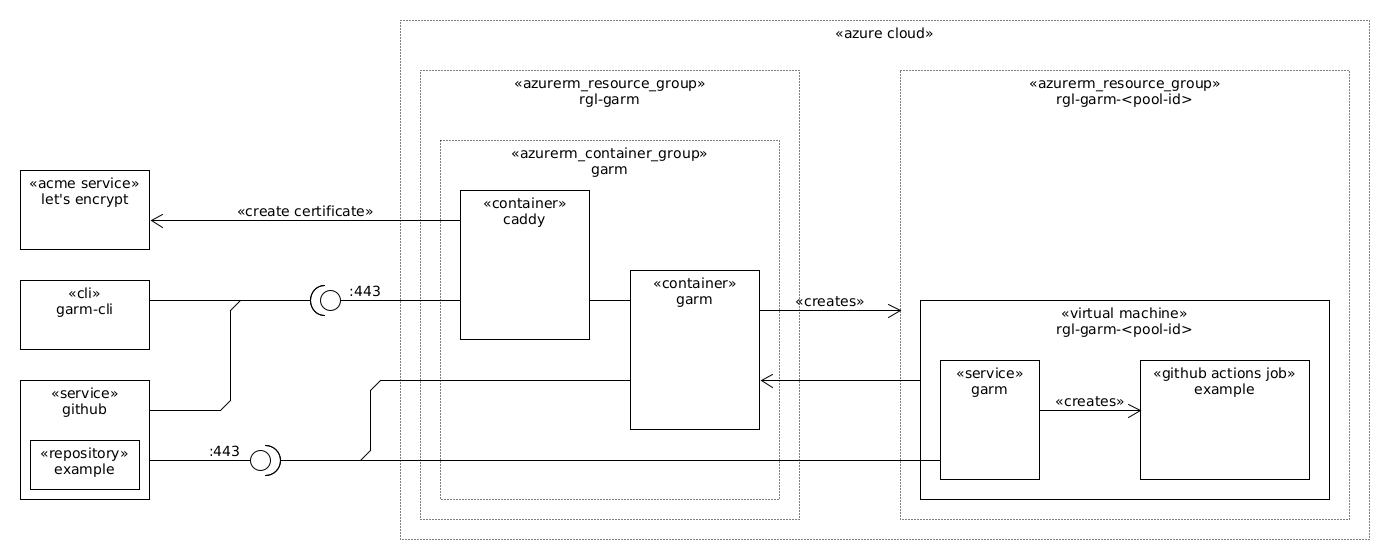
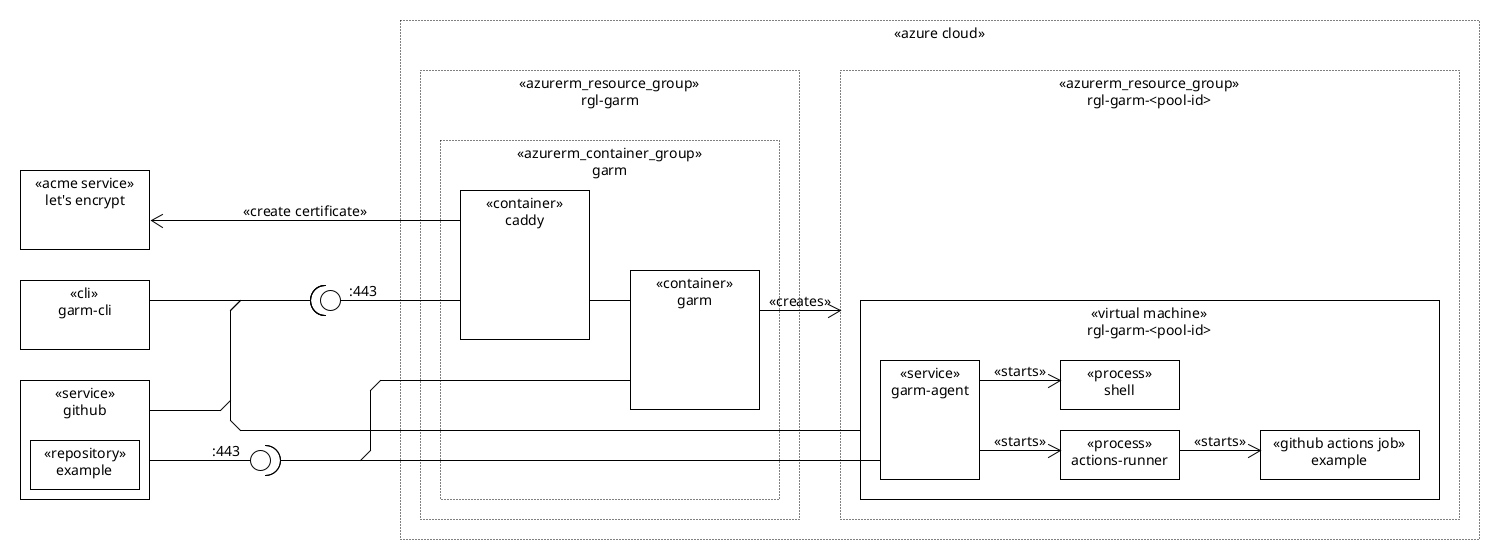
enable the agent mode and shell access

diff --git a/README.md b/README.md
@@ -300,6 +300,7 @@ Add a user GitHub repository:
 ```bash
 repo_name='terraform-azure-garm-example-repository'
 ./garm-cli repo add \
+  --agent-mode \
   --credentials rgl \
   --owner rgl \
   --name "$repo_name" \
@@ -335,6 +336,7 @@ Add a GitHub organization:
 ```bash
 org_name='rgl-example'
 ./garm-cli org add \
+  --agent-mode \
   --credentials rgl-example \
   --name "$org_name" \
   --install-webhook \
@@ -366,6 +368,7 @@ Create a Ubuntu (runner) pool associated with a GitHub repository:
 #     Canonical:ubuntu-24_04-lts:server:24.04.202601300
 ./garm-cli pool create \
   --enabled true \
+  --enable-shell \
   --min-idle-runners 0 \
   --max-runners 2 \
   --tags garm-azure-amd64-ubuntu-24.04 \
@@ -422,6 +425,7 @@ Create a Ubuntu (runner) pool associated with a GitHub organization:
 # NB see CloudConfigTemplate at https://github.com/cloudbase/garm-provider-common/blob/v0.1.8/cloudconfig/templates.go#L26
 ./garm-cli pool create \
   --enabled true \
+  --enable-shell \
   --org "$org_id" \
   --min-idle-runners 0 \
   --max-runners 2 \
@@ -481,6 +485,7 @@ Create a Windows (runner) pool associated with a GitHub organization:
 # NB see WindowsSetupScriptTemplate at https://github.com/cloudbase/garm-provider-common/blob/v0.1.8/cloudconfig/templates.go#L216
 ./garm-cli pool create \
   --enabled true \
+  --enable-shell \
   --org "$org_id" \
   --min-idle-runners 0 \
   --max-runners 2 \
@@ -560,6 +565,7 @@ GITHUB_COM_TOKEN='YOUR_GITHUB_PERSONAL_TOKEN' ./renovate.sh
 ## Reference
 
 * [GitHub Actions Runner Manager (GARM)](https://github.com/cloudbase/garm)
+* [GitHub Actions Runner Manager Agent (GARM Agent)](https://github.com/cloudbase/garm-agent)
 * [GARM External Provider For Azure](https://github.com/cloudbase/garm-provider-azure)
 * [azurerm_container_group](https://registry.terraform.io/providers/hashicorp/azurerm/latest/docs/resources/container_group)
 * [Container groups in Azure Container Instances](https://docs.microsoft.com/en-us/azure/container-instances/container-instances-container-groups)
